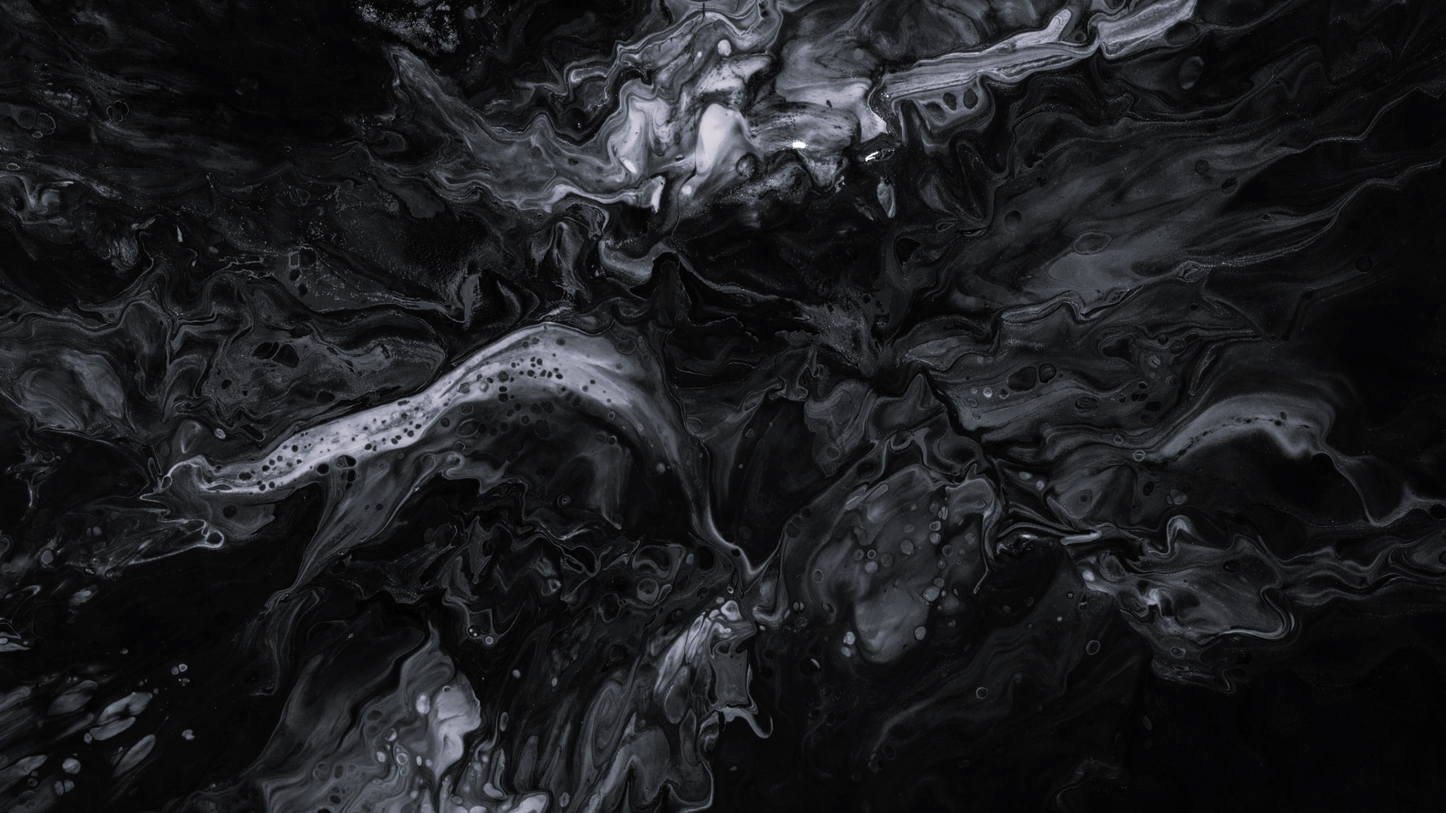
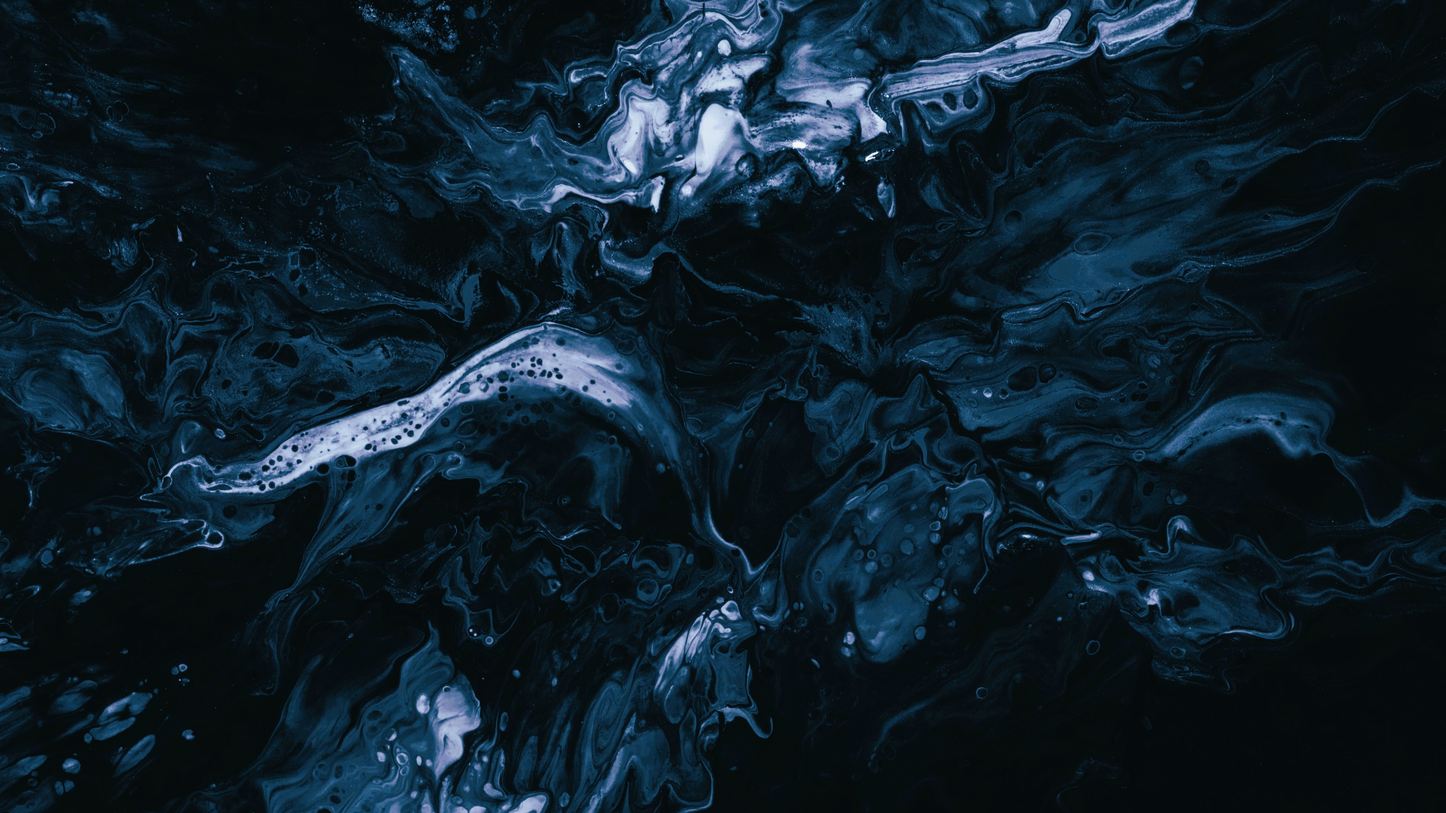
looks cool

diff --git a/index.html b/index.html
@@ -21,16 +21,46 @@
     <main>
         <section id="main-banner">   
             <h1>BuzzScript</h1>
-            <p>It's quiz time</p>
-        </section>
-            <h2>Quizzes</h2>
+            <p>It's quiz time (think of a good tag line...)</p>
+        </section id="educational">
+            <h2>Educational</h2>
             <hr>
-            <p>Geography</p>
+            <div class="thumbnails">
+                <div class="thumbnail">
+                    <h4>Geography Quiz</h4>
+                    <p>Lorem ipsum dolor sit amet consectetur adipisicing elit.</p>
+                </div>
+                <div class="thumbnail">
+                    <h4>History Quiz</h4>
+                    <p>Lorem ipsum dolor sit amet consectetur adipisicing elit.</p>
+                </div>
+                <div class="thumbnail">
+                    <h4>Math Quiz</h4>
+                    <p>Lorem ipsum dolor sit amet consectetur adipisicing elit.</p>
+                </div>
+                <div class="thumbnail">
+                    <h4>Philosophy Quiz</h4>
+                    <p>Lorem ipsum dolor sit amet consectetur adipisicing elit.</p>
+                </div>
+            </div>
+            <h2>Mini Games</h2>
+            <hr>
+            <div class="thumbnails">
+                <div class="thumbnail">
+                    <h4>Label Game</h4>
+                    <p>Lorem ipsum dolor sit amet consectetur adipisicing elit.</p>
+                </div>
+                <div class="thumbnail">
+                    <h4>Match Game</h4>
+                    <p>Lorem ipsum dolor sit amet consectetur adipisicing elit.</p>
+                </div>
+            </div>
+            
         <section>  
         </section>
     </main>
     <footer>
-
+        Final Project 2024, By Zara, Abhita and Hans
     </footer>
 </body>
 </html>

diff --git a/css/styles.css b/css/styles.css
@@ -1,16 +1,19 @@
 :root {
-    --background-color: #2a2424;
-    --text-color: white;
+    --background-color: #0A161C;
+    --text-color: rgb(255, 255, 255);
     --accent-color: #F1BA0A;
   }
 
   body {
     background-color: var(--background-color);
     color: var(--text-color);
+    min-height: 100vh;
+    display: flex;
+    flex-direction: column;
   }
 
   header {
-    background-color: black;
+    background-color: hsl(200, 47%, 4%);
     width: 100%;
     min-height: 80px;
   }
@@ -22,9 +25,8 @@
 
 #topbar li {
   list-style-type: none;
-  padding-right: 1em;
   padding-top: 2em;
-  padding-left: 0.5em;
+  padding-left: 25px;
  }
 
  #topbar ul {
@@ -33,8 +35,7 @@
 
  #main-banner {
   background-image: url(/images/hero_image.jpg);
-  background-color: black;
-  background-size: contain;
+  background-size: cover;
   background-position: 50%;
   background-repeat: no-repeat;
   width: 100%;
@@ -50,3 +51,50 @@
  #main-banner h1{
   font-size: 7em;
  }
+
+ main {
+  flex: 1;
+ }
+
+ h2 {
+  font-size: 2em;
+  padding: 0.2em;
+ }
+
+ hr {
+  border: 1px dotted white;
+ }
+
+h2+p {
+  padding-top: 2em;
+}
+
+.thumbnails {
+  display: flex;
+  flex-wrap: wrap;
+}
+
+.thumbnail {
+  display: flex;
+  flex-direction: column;
+  background-color: #093245;
+  margin: 1em;
+  padding: 1em;
+  min-width: 200px;
+  max-width: 200px;
+  height: 200px;
+  border-radius: 8px;
+}
+
+.thumbnail:hover {
+  box-shadow: 12px 12px 12px rgba(0, 0, 0, 0.3),
+  -10px -10px 10px hsl(200, 47%, 8%)
+}
+
+footer {
+  background-color: hsl(200, 47%, 4%);
+  min-height: 20px;
+  display: flex;
+  align-items: center;
+  padding: 1em;
+}
